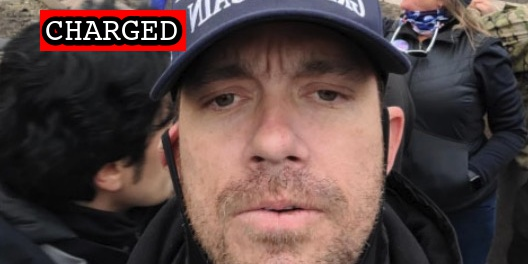
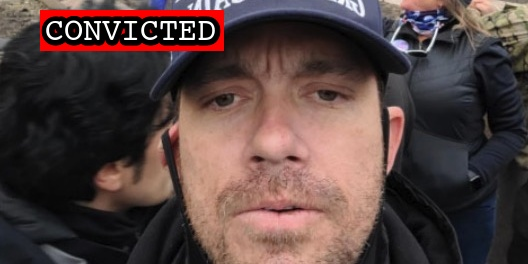
Latest

Changed region(s): [[0.1212, 0.0303, 0.4242, 0.2121]]

diff --git a/docs/_suspects/vincent-ardolino.md b/docs/_suspects/vincent-ardolino.md
@@ -4,11 +4,11 @@ lastName: Ardolino
 hashtag:
 aka:
 residence: California
-status: Charged
+status: Convicted
 date: 2022-11-21
 charged: 2022-11-21
 indicted:
-convicted:
+convicted: 2023-05-18
 acquitted:
 sentenced:
 dismissed:
@@ -17,7 +17,7 @@ plea_hearing: 2023-05-18
 trial_date:
 trial_type:
 jury_selection:
-sentencing:
+sentencing: 2023-09-18
 status_conference:
 age: 46
 occupation:
@@ -32,7 +32,7 @@ raid:
 perpwalk:
 quote:
 title: Vincent Ardolino charged on November 21st, 2022
-description: Click for latest case details. Suspects innocent until proven guilty.
+description: Convicted on May 18, 2023. Click for latest case details.
 author: seditiontrack
 layout: suspect
 published: true
@@ -41,8 +41,13 @@ caseName: USA v. ARDOLINO
 judge: Reggie B. Walton
 videos:
 charges:
+  - code: 40 USC § 5104(e)(2)(G)
+    title: Parading, demonstrating or picketing in a Capitol building
+    url: https://www.law.cornell.edu/uscode/text/40/5104
+    felony: false
 sentence:
 ---
+
 - [News Report](https://www.ocregister.com/2022/12/02/oc-man-charged-in-connection-with-jan-6-insurrection-after-facebook-post/)
 - [Complaint](https://www.justice.gov/usao-dc/case-multi-defendant/file/1555301/download)
 - [Statement of Facts](https://www.justice.gov/usao-dc/case-multi-defendant/file/1555306/download)

diff --git a/docs/_suspects/william-kit.md b/docs/_suspects/william-kit.md
@@ -41,20 +41,19 @@ caseName: USA v. KIT
 judge: Jia M. Cobb
 videos:
 charges:
-  - code: 18 USC § 1752(a)(1)
-    title: Entering a restricted building or grounds
-    url: https://www.law.cornell.edu/uscode/text/18/1752
-    felony: false
-  - code: 22 DC Code § 4504(a)
-    title: Carrying a Pistol Without a License
-    url: https://code.dccouncil.us/us/dc/council/code/sections/22-4504.html
-    felony: true
+- code: 18 USC § 1752(a)(1)
+  title: Entering a restricted building or grounds
+  url: https://www.law.cornell.edu/uscode/text/18/1752
+  felony: false
+- code: 22 DC Code § 4504(a)
+  title: Carrying a Pistol Without a License
+  url: https://code.dccouncil.us/us/dc/council/code/sections/22-4504.html
+  felony: true
 sentence:
   - 30 days incarceration
   - 1 year probation
   - $500 restitution
 ---
-
 - [News Report](https://www.wltx.com/article/news/national/dc-resident-and-pro-trump-youtuber-charged-with-entering-capitol-william-stephon-kit-oxon-hill/65-0dec1b07-60f4-412f-b3eb-19c4a7c34f36)
 - [Complaint](https://www.justice.gov/usao-dc/case-multi-defendant/file/1523691/download)
 - [Statement of Facts](https://www.justice.gov/usao-dc/case-multi-defendant/file/1523696/download)

diff --git a/docs/_suspects/christina-gerding.md b/docs/_suspects/christina-gerding.md
@@ -41,15 +41,14 @@ caseName: USA v. GERDING
 judge: Paul L. Friedman
 videos:
 charges:
-  - code: 40 USC § 5104(e)(2)(G)
-    title: Parading, demonstrating or picketing in a Capitol building
-    url: https://www.law.cornell.edu/uscode/text/40/5104
-    felony: false
+- code: 40 USC § 5104(e)(2)(G)
+  title: Parading, demonstrating or picketing in a Capitol building
+  url: https://www.law.cornell.edu/uscode/text/40/5104
+  felony: false
 sentence:
   - 2 years probation
   - $500 restitution
 ---
-
 - [News Report](https://khqa.com/news/local/justice-department-arrests-quincy-couple-in-connection-to-us-capitol-raid)
 - [Complaint](https://www.justice.gov/opa/page/file/1361586/download)
 - [Statement of Facts](https://www.justice.gov/opa/page/file/1361586/download)

diff --git a/docs/_suspects/jason-gerding.md b/docs/_suspects/jason-gerding.md
@@ -41,15 +41,14 @@ caseName: USA v. GERDING
 judge: Paul L. Friedman
 videos:
 charges:
-  - code: 40 USC § 5104(e)(2)(G)
-    title: Parading, demonstrating or picketing in a Capitol building
-    url: https://www.law.cornell.edu/uscode/text/40/5104
-    felony: false
+- code: 40 USC § 5104(e)(2)(G)
+  title: Parading, demonstrating or picketing in a Capitol building
+  url: https://www.law.cornell.edu/uscode/text/40/5104
+  felony: false
 sentence:
   - 2 years probation
   - $500 restitution
 ---
-
 - [News Report](https://khqa.com/news/local/justice-department-arrests-quincy-couple-in-connection-to-us-capitol-raid)
 - [Complaint](https://www.justice.gov/opa/page/file/1361581/download)
 - [Statement of Facts](https://www.justice.gov/opa/page/file/1361581/download)

diff --git a/docs/_suspects/philip-grillo.md b/docs/_suspects/philip-grillo.md
@@ -14,11 +14,11 @@ sentenced:
 dismissed:
 deceased:
 plea_hearing:
-trial_date: 2023-04-19
+trial_date: 2023-11-27
 trial_type: Jury Trial
-jury_selection: 2023-04-19
+jury_selection: 2023-11-27
 sentencing:
-status_conference: 2023-05-18
+status_conference: 2023-07-28
 age: 46
 occupation:
 affiliations:

diff --git a/docs/_suspects/samuel-camargo.md b/docs/_suspects/samuel-camargo.md
@@ -14,11 +14,11 @@ sentenced:
 dismissed:
 deceased:
 plea_hearing:
-trial_date:
-trial_type:
-jury_selection:
+trial_date: 2023-09-27
+trial_type: Jury Trial
+jury_selection: 2023-09-27
 sentencing:
-status_conference: 2023-05-18
+status_conference:
 age:
 occupation:
 affiliations:

diff --git a/docs/_suspects/david-walls-kaufman.md b/docs/_suspects/david-walls-kaufman.md
@@ -17,7 +17,7 @@ plea_hearing: 2023-01-19
 trial_date:
 trial_type:
 jury_selection:
-sentencing: 2023-05-19
+sentencing: 2023-06-13
 status_conference:
 age:
 occupation:

diff --git a/docs/_suspects/ezekiel-stecher.md b/docs/_suspects/ezekiel-stecher.md
@@ -13,7 +13,7 @@ acquitted:
 sentenced:
 dismissed:
 deceased:
-plea_hearing:
+plea_hearing: 2023-06-16
 trial_date:
 trial_type:
 jury_selection:
